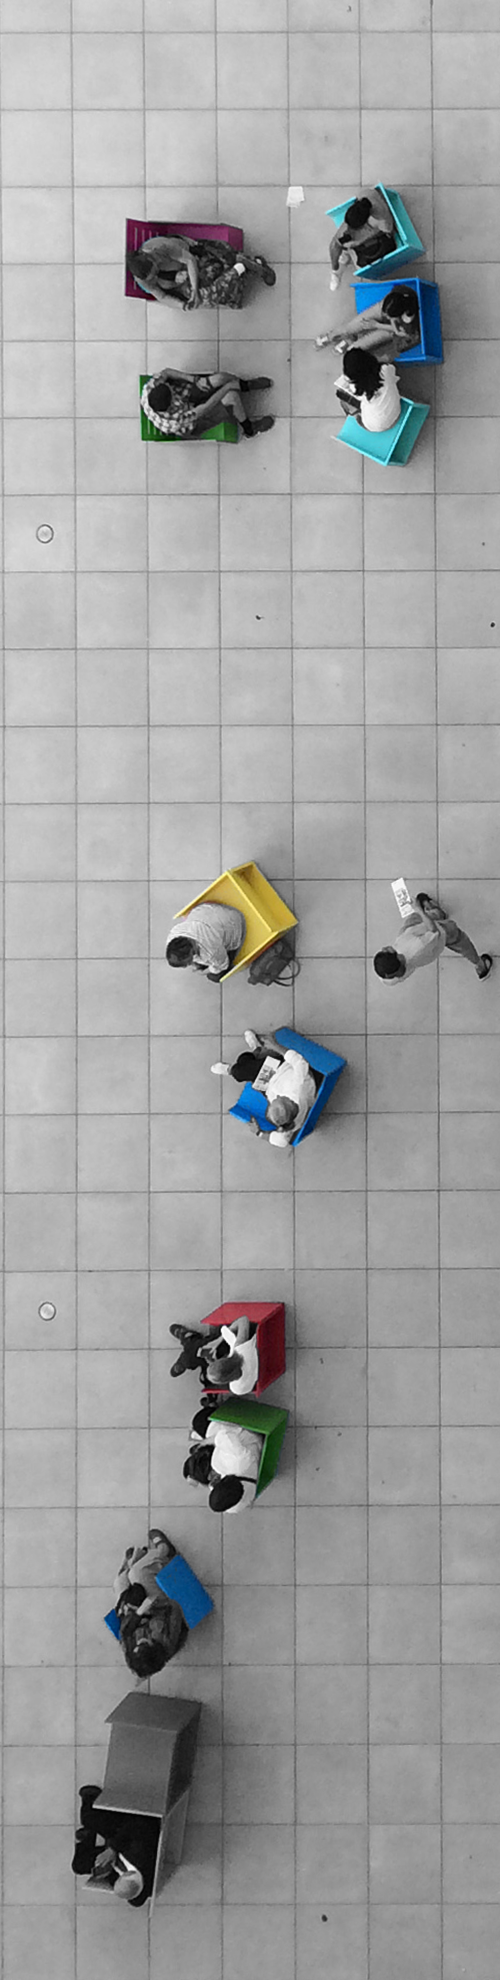
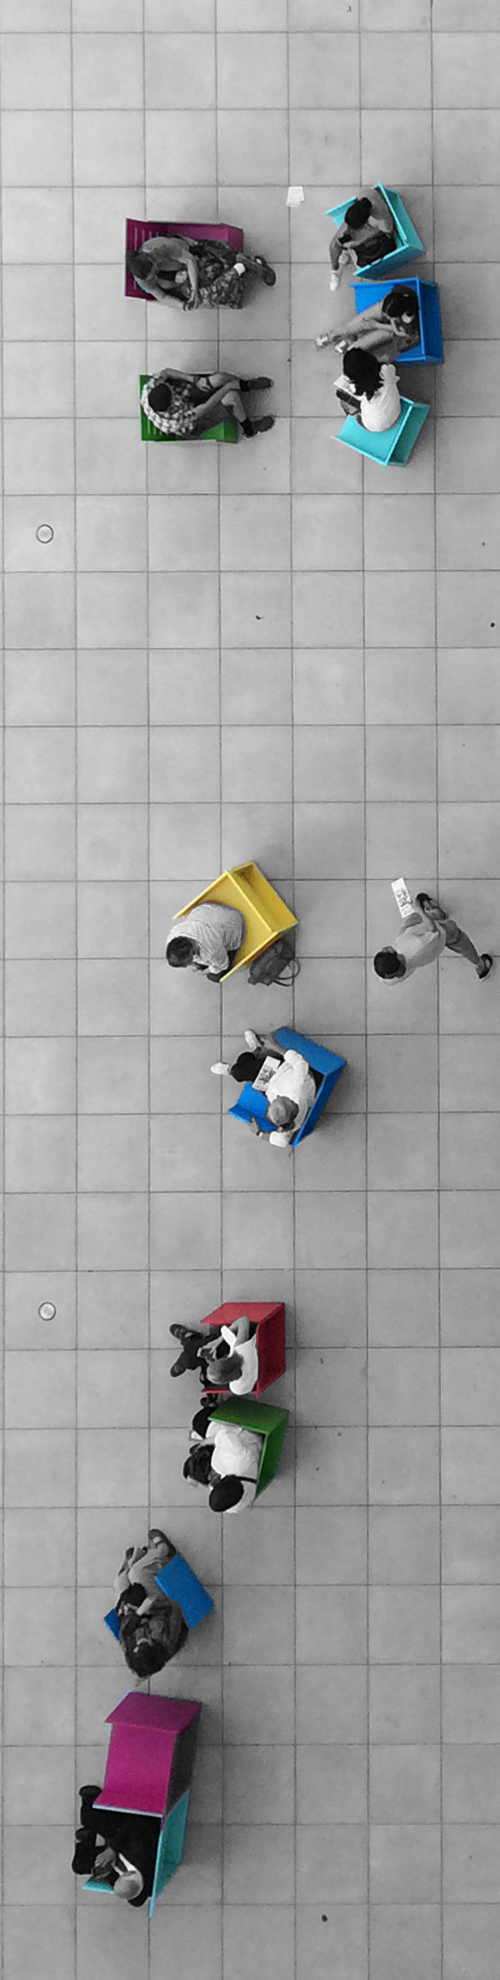
Changed background-size to cover

Changed region(s): [[0.18, 0.8318, 0.39, 0.9859]]

diff --git a/unit_4/css/style.css b/unit_4/css/style.css
@@ -59,7 +59,7 @@ a {
 }
 #photo {
 	background-image:url(../images/whitney1.png);
-	background-size:auto;
+	background-size:cover;
 	background-repeat:no-repeat;
 	background-position:bottom;
 }
